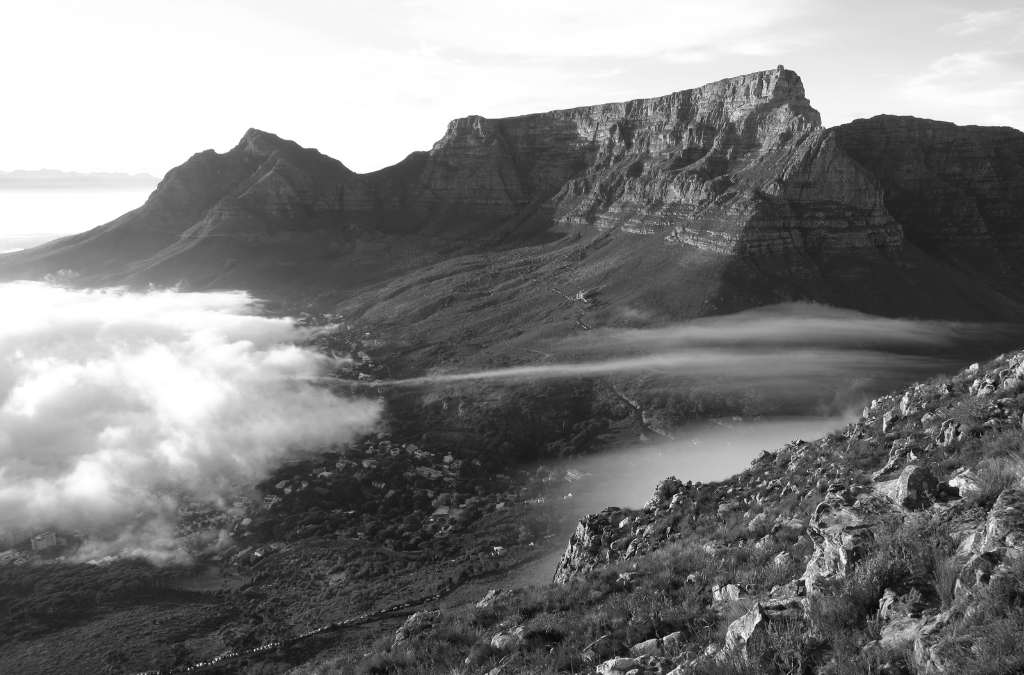
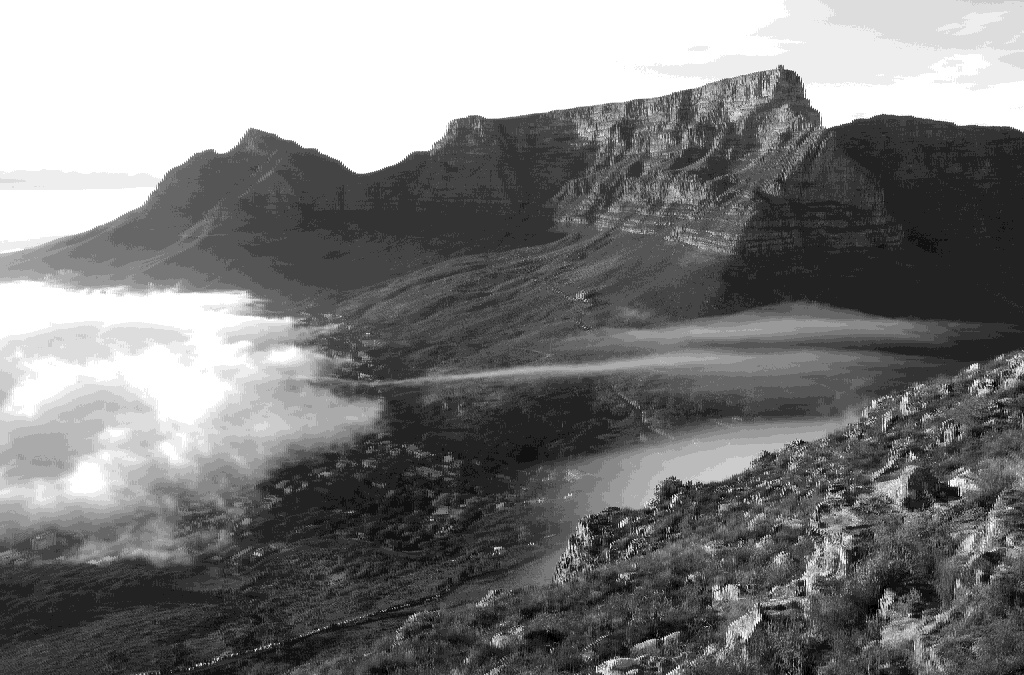
Added support for greyscale with bit depth <8 for png images

diff --git a/src/png/color_type.rs b/src/png/color_type.rs
@@ -1,6 +1,6 @@
 use crate::colors::{YCbCr, RGBA};
 
-use super::PngParseError;
+use super::{deflate::bitsream::WriteBitStream, PngParseError};
 
 #[derive(Debug, Clone, Copy)]
 pub enum ColorType {
@@ -12,7 +12,11 @@ pub enum ColorType {
 }
 
 impl ColorType {
-    pub fn create_scanlines(&self, pixels: &[Vec<RGBA>]) -> Vec<Vec<u8>> {
+    pub fn create_scanlines(&self, pixels: &[Vec<RGBA>], bit_depth: u8) -> Vec<Vec<u8>> {
+        if bit_depth < 8 {
+            return self.create_scanlines_bit_aligned(pixels, bit_depth);
+        }
+
         let mut scanlines: Vec<Vec<u8>> = Vec::with_capacity(pixels.len());
 
         for row in pixels {
@@ -24,29 +28,63 @@ impl ColorType {
                     ColorType::Greyscale => {
                         let ycbcr = YCbCr::from(pixel.clone());
 
-                        scanline.push(ycbcr.y);
+                        Self::push_channel_value(&mut scanline, ycbcr.y, bit_depth);
                     }
                     ColorType::GreyscaleAlpha => {
                         let ycbcr = YCbCr::from(pixel.clone());
 
-                        scanline.push(ycbcr.y);
-                        scanline.push(pixel.a);
+                        Self::push_channel_value(&mut scanline, ycbcr.y, bit_depth);
+                        Self::push_channel_value(&mut scanline, pixel.a, bit_depth);
                     }
                     ColorType::Truecolor => {
-                        scanline.push(pixel.r);
-                        scanline.push(pixel.g);
-                        scanline.push(pixel.b);
+                        Self::push_channel_value(&mut scanline, pixel.r, bit_depth);
+                        Self::push_channel_value(&mut scanline, pixel.g, bit_depth);
+                        Self::push_channel_value(&mut scanline, pixel.b, bit_depth);
                     }
                     ColorType::TrueColorAlpha => {
-                        scanline.push(pixel.r);
-                        scanline.push(pixel.g);
-                        scanline.push(pixel.b);
-                        scanline.push(pixel.a);
+                        Self::push_channel_value(&mut scanline, pixel.r, bit_depth);
+                        Self::push_channel_value(&mut scanline, pixel.g, bit_depth);
+                        Self::push_channel_value(&mut scanline, pixel.b, bit_depth);
+                        Self::push_channel_value(&mut scanline, pixel.a, bit_depth);
                     }
                 }
             }
 
             scanlines.push(scanline);
+        }
+
+        scanlines
+    }
+
+    fn push_channel_value(scanline: &mut Vec<u8>, value: u8, bit_depth: u8) {
+        if bit_depth == 8 {
+            scanline.push(value);
+        } else {
+            scanline.push(value);
+            scanline.push(value);
+        }
+    }
+
+    fn create_scanlines_bit_aligned(&self, pixels: &[Vec<RGBA>], bit_depth: u8) -> Vec<Vec<u8>> {
+        let mut scanlines: Vec<Vec<u8>> = Vec::with_capacity(pixels.len());
+
+        for row in pixels {
+            let mut scanline = WriteBitStream::new();
+
+            for pixel in row {
+                match self {
+                    ColorType::Greyscale => {
+                        let ycbcr = YCbCr::from(pixel.clone());
+                        let greyscale_adjusted_to_depths = ycbcr.y >> (8 - bit_depth);
+
+                        scanline.push_u8_rtl(greyscale_adjusted_to_depths, bit_depth);
+                    },
+                    ColorType::IndexedColor => todo!(),
+                    _ => panic!("Only greyscale and indexed color should be used with less than 8 bit depth")
+                }
+            }
+
+            scanlines.push(scanline.flush_to_bytes());
         }
 
         scanlines

diff --git a/src/png/chunks/ihdr.rs b/src/png/chunks/ihdr.rs
@@ -92,7 +92,7 @@ impl Into<u8> for &InterlaceMethod {
 pub struct IHDR {
     pub width: u32,
     pub height: u32,
-    bit_depth: u8,
+    pub bit_depth: u8,
     color_type: ColorType,
     compression_method: CompressionMethod,
     filter_method: FilterMethod,
@@ -100,11 +100,11 @@ pub struct IHDR {
 }
 
 impl IHDR {
-    pub fn new(width: u32, height: u32, color_type: ColorType) -> Self {
+    pub fn new(width: u32, height: u32, color_type: ColorType, bit_depth: u8) -> Self {
         Self {
             width,
             height,
-            bit_depth: 8,
+            bit_depth,
             color_type,
             compression_method: CompressionMethod::Deflate,
             filter_method: FilterMethod::Adaptive,
@@ -159,6 +159,25 @@ impl IHDR {
             filter_method,
             interlace_method,
         })
+    }
+
+    pub fn check_bit_depth_validity(&self) {
+        match self.color_type {
+            ColorType::Greyscale => Self::validate_bit_depth(&[1, 2, 4, 8, 16], self.bit_depth),
+            ColorType::Truecolor => Self::validate_bit_depth(&[8, 16], self.bit_depth),
+            ColorType::IndexedColor => Self::validate_bit_depth(&[1, 4, 8], self.bit_depth),
+            ColorType::GreyscaleAlpha => Self::validate_bit_depth(&[8, 16], self.bit_depth),
+            ColorType::TrueColorAlpha => Self::validate_bit_depth(&[8, 16], self.bit_depth),
+        }
+    }
+
+    fn validate_bit_depth(valid_bit_depths: &[u8], bit_depth: u8) {
+        if !valid_bit_depths.contains(&bit_depth) {
+            panic!(
+                "Invalid bit depths {}, allowed bit depths for color type are {:?}",
+                bit_depth, valid_bit_depths
+            )
+        }
     }
 
     pub fn check_compatibility(&self) -> Result<(), PngParseError> {

diff --git a/src/png/mod.rs b/src/png/mod.rs
@@ -79,12 +79,24 @@ pub fn decode_png(bytes: &[u8]) -> Result<Vec<Vec<RGBA>>, PngParseError> {
     Ok(pixels)
 }
 
-pub fn encode_png(pixels: Vec<Vec<RGBA>>, color_type: Option<ColorType>) -> Vec<u8> {
+pub fn encode_png(
+    pixels: Vec<Vec<RGBA>>,
+    color_type: Option<ColorType>,
+    bit_depth: Option<u8>,
+) -> Vec<u8> {
     let color_type = color_type.unwrap_or(ColorType::TrueColorAlpha);
+    let bit_depth = bit_depth.unwrap_or(8);
 
     let mut crc = CrcCalculator::new();
-    let ihdr = IHDR::new(pixels[0].len() as u32, pixels.len() as u32, color_type);
-    let scanlines = color_type.create_scanlines(&pixels);
+    let ihdr = IHDR::new(
+        pixels[0].len() as u32,
+        pixels.len() as u32,
+        color_type,
+        bit_depth,
+    );
+    ihdr.check_bit_depth_validity();
+
+    let scanlines = color_type.create_scanlines(&pixels, ihdr.bit_depth);
     let filtered_scanlines = filter_scanlines(&scanlines, ihdr.get_bits_per_pixel());
     let compressed_data = compress_scanlines(&filtered_scanlines);
 

diff --git a/src/colors.rs b/src/colors.rs
@@ -72,6 +72,14 @@ impl From<RGBA> for YCbCr {
     }
 }
 
+impl From<&RGBA> for YCbCr {
+    fn from(value: &RGBA) -> Self {
+        let rgb: RGB = value.into();
+
+        (&rgb).into()
+    }
+}
+
 const RGB_TO_YCBCR_CONVERSION_TABLE: Matrix3 = Matrix3::new(
     [0.299, -0.168935, 0.499813],
     [0.587, -0.331665, -0.418531],
@@ -135,6 +143,16 @@ impl RGBA {
 }
 
 impl Into<RGB> for RGBA {
+    fn into(self) -> RGB {
+        RGB {
+            r: self.r,
+            g: self.g,
+            b: self.b,
+        }
+    }
+}
+
+impl Into<RGB> for &RGBA {
     fn into(self) -> RGB {
         RGB {
             r: self.r,

diff --git a/src/png/filter.rs b/src/png/filter.rs
@@ -102,7 +102,6 @@ pub fn filter_scanlines(scanlines: &Vec<Vec<u8>>, bbp: usize) -> Vec<Vec<u8>> {
             for col in 0..scanlines[row].len() {
                 let x = scanlines[row][col];
                 let (row, col) = (row as i16, col as i16);
-                //TODO: this is only 4 when there are 4 samples per pixel (and a bit depth of 8)
                 let a = get_byte(&scanlines, row, col - other_byte_offsets);
                 let b = get_byte(&scanlines, row - 1, col);
                 let c = get_byte(&scanlines, row - 1, col - other_byte_offsets);

diff --git a/src/main.rs b/src/main.rs
@@ -75,7 +75,7 @@ fn png_encode_test() {
         rgba_pixels.push(pixel_row);
     }
 
-    let png_bytes = encode_png(rgba_pixels, Some(png::ColorType::GreyscaleAlpha));
+    let png_bytes = encode_png(rgba_pixels, Some(png::ColorType::Greyscale), Some(4));
     fs::write("files/mymountain.png", png_bytes).expect("Failed to write my png");
 }
 
